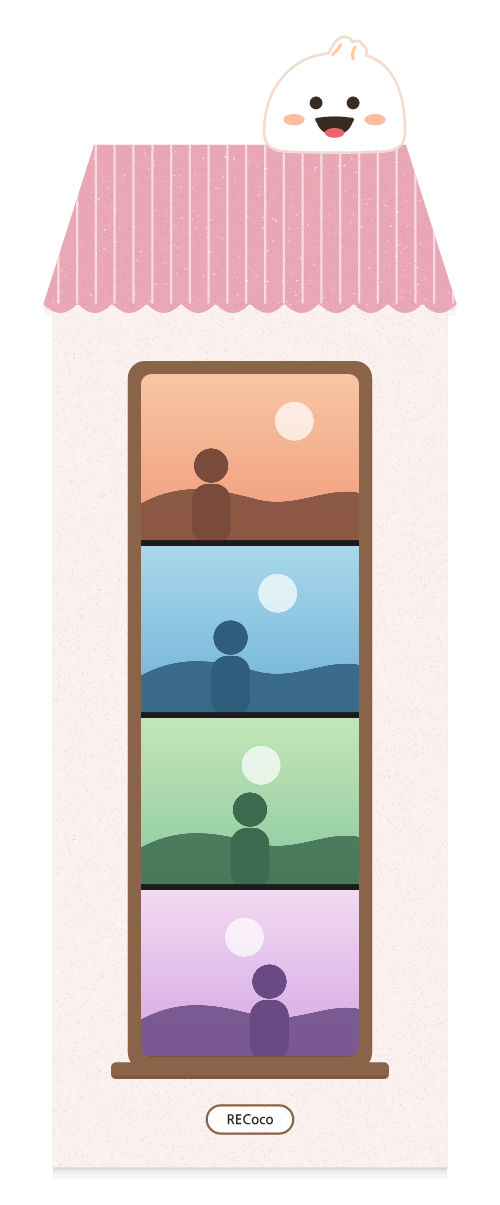
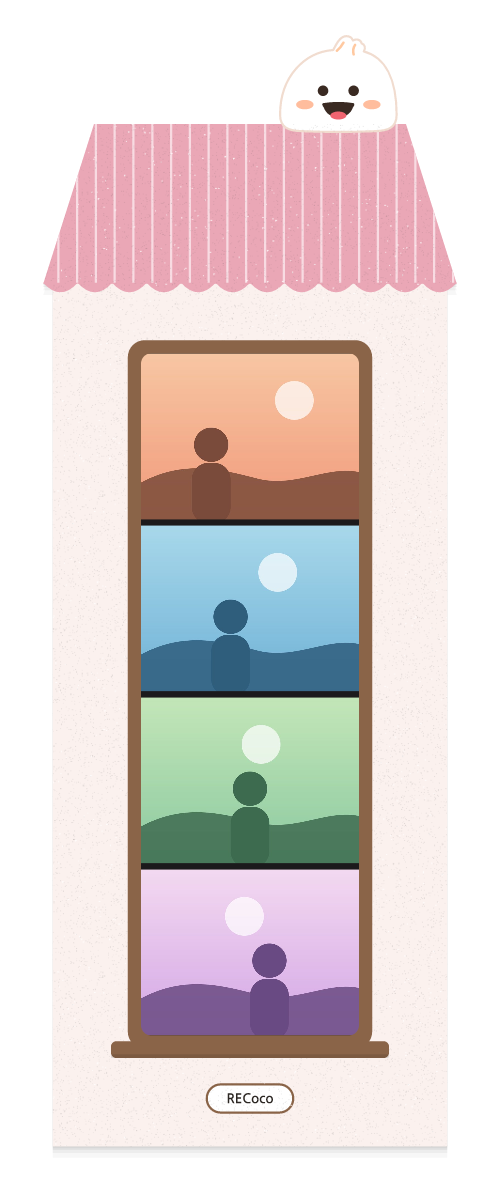
하우스네컷: 분홍 지붕 코코 조금 작게

diff --git a/app/src/templates/FourcutHouse.tsx b/app/src/templates/FourcutHouse.tsx
@@ -42,7 +42,7 @@ export const houseColorOf = (r: FourcutRecord): FourcutHouseColor => (r.houseCol
 
 /** 지붕마다 머리 위 여백(코코·뾰족한 꼭대기·연기)과 지붕 높이가 다르다 */
 const ROOF_SIZE: Record<Roof, { top: number; h: number }> = {
-  stripe: { top: 138, h: 170 },
+  stripe: { top: 116, h: 170 },
   grid: { top: 20, h: 280 },
   dots: { top: 20, h: 210 },
   chimney: { top: 100, h: 200 },
@@ -220,7 +220,7 @@ function Shell({ g, id, connected }: { g: Geo; id: string; connected: boolean })
       {!connected && <PaperShadow d={outline(g)} strength={1.2} />}
       <Rect x={X0} y={wallTop - 1} width={X1 - X0} height={wallBot - wallTop + 1} fill={color.wall} />
       <RoofArt g={g} id={id} />
-      {color.roof === 'stripe' && <CocoSitting x={X1 - 120} y={top + 8} w={150} />}
+      {color.roof === 'stripe' && <CocoSitting x={X1 - 116} y={top + 8} w={124} />}
       {/* 명패 */}
       <Rect x={CX - 46} y={wallBot - 66} width={92} height={30} rx={15} fill="#fff" stroke={color.frame} strokeWidth={2.4} />
       <T f="sansBold" x={CX} y={wallBot - 46} fontSize={14} fill={INK} textAnchor="middle" children={BRAND.en} />
